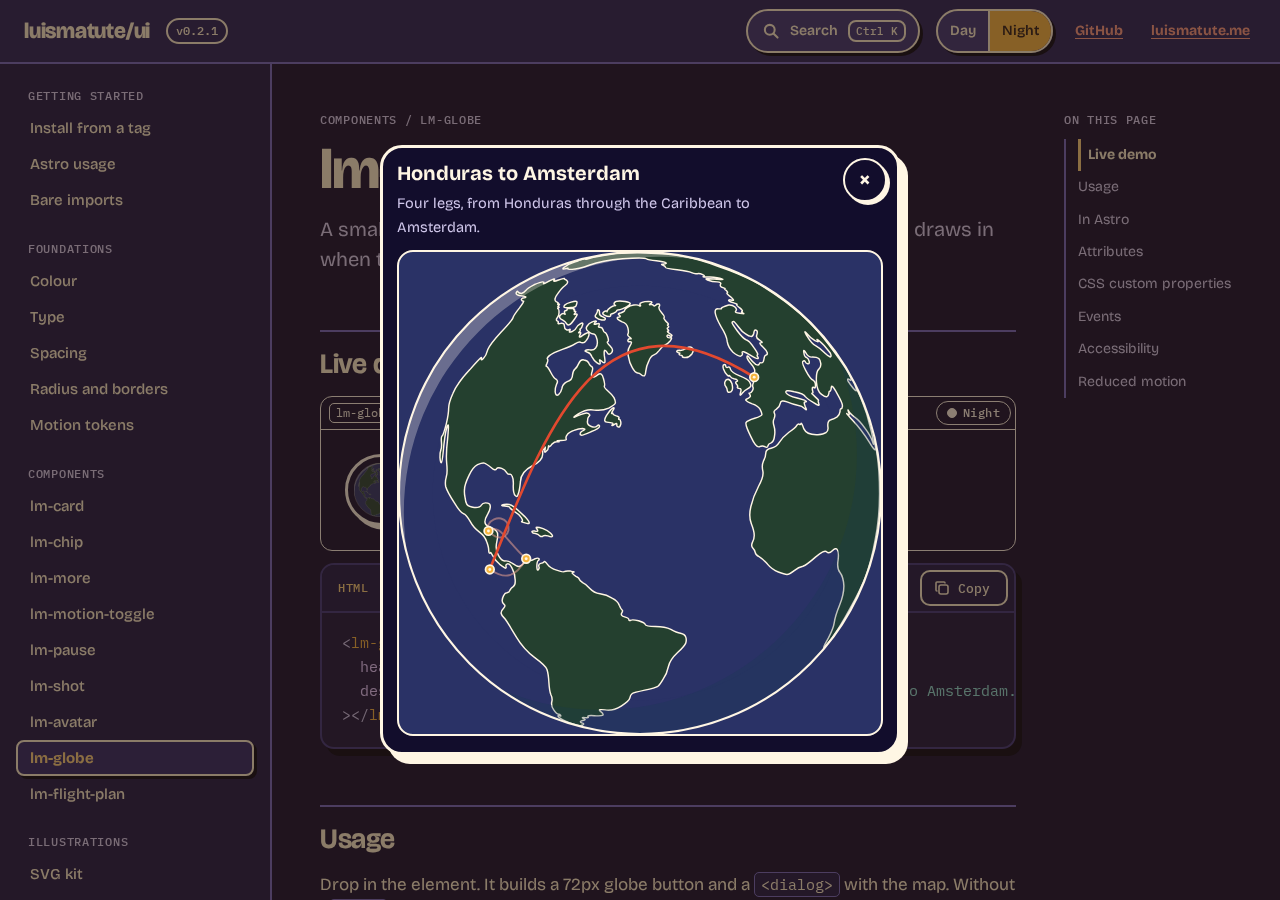
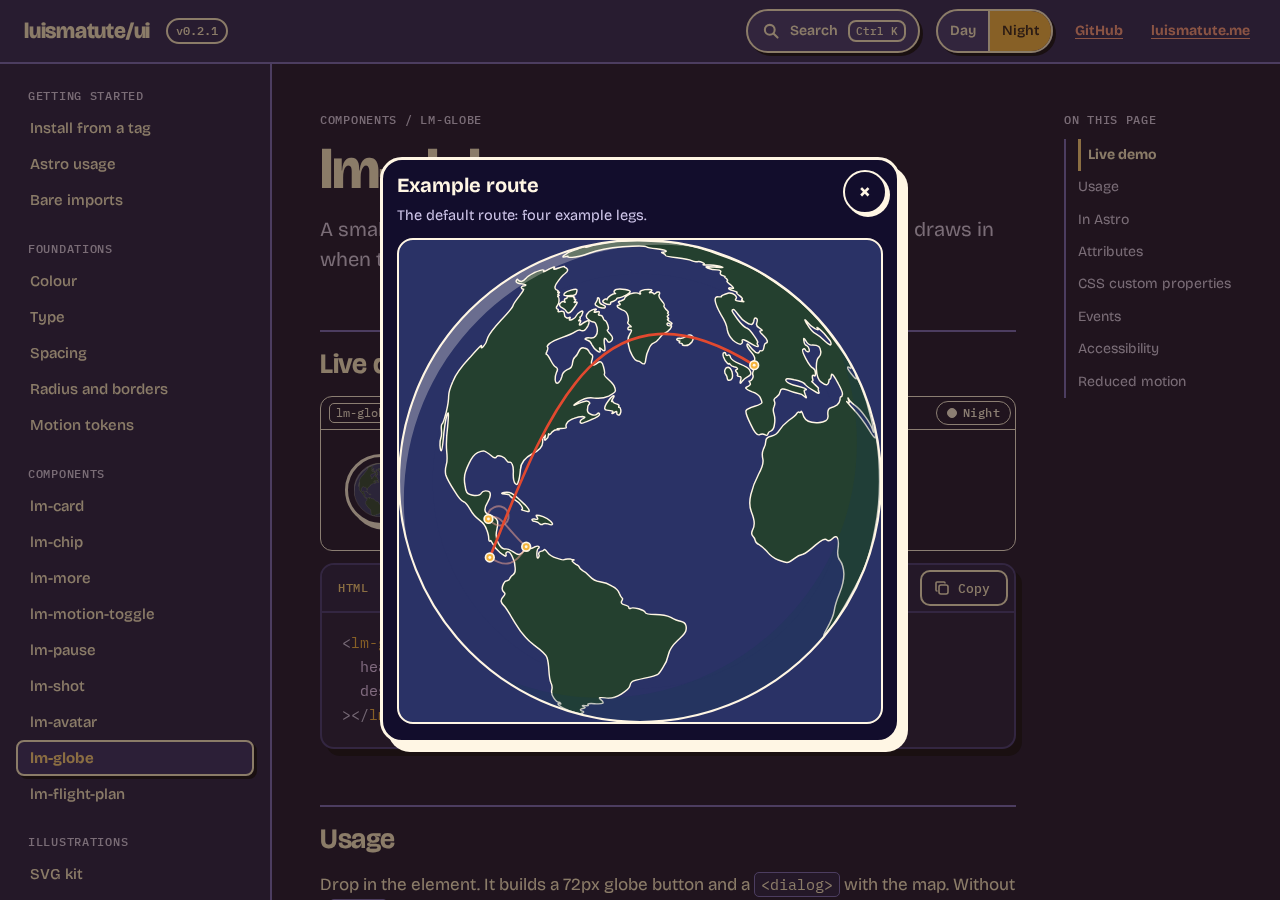
fix(site): use generic example stops in lm-flight-plan demo
Demo, snippets and specs used real biography stops. Replace with generic
examples (Stop one/Stop two/Now, 2015-2018/2018-2021/2021-now, Example Co.);
the lm-globe demo heading is generic too. Stills regenerated.

diff --git a/site/e2e/lm-flight-plan.spec.ts b/site/e2e/lm-flight-plan.spec.ts
@@ -8,8 +8,8 @@ test('demo renders an ordered list of stop links', async ({ page }) => {
   await expect(plan.locator('ol > li')).toHaveCount(3);
   const first = plan.getByRole('link').first();
   await expect(first).toHaveClass(/lm-plan-jump/);
-  await expect(first.locator('.lm-yr')).toHaveText('1987–2011');
-  await expect(first.locator('.lm-name')).toHaveText('Honduras');
+  await expect(first.locator('.lm-yr')).toHaveText('2015–2018');
+  await expect(first.locator('.lm-name')).toHaveText('Stop one, Example Co.');
 });
 
 pageChecks('lm-flight-plan', '<lm-flight-plan>');

diff --git a/site/e2e/lm-globe.spec.ts b/site/e2e/lm-globe.spec.ts
@@ -8,7 +8,7 @@ test('demo renders and the route map opens and closes', async ({ page }) => {
   await expect(btn).toBeVisible();
   await expect(btn.locator('svg')).toHaveCount(1);
   await btn.click();
-  const dialog = page.getByRole('dialog', { name: 'Honduras to Amsterdam' });
+  const dialog = page.getByRole('dialog', { name: 'Example route' });
   await expect(dialog).toBeVisible();
   await expect(dialog.locator('.lm-leg')).toHaveCount(4);
   await expect(dialog.getByRole('button', { name: 'Close route map' })).toBeFocused();
